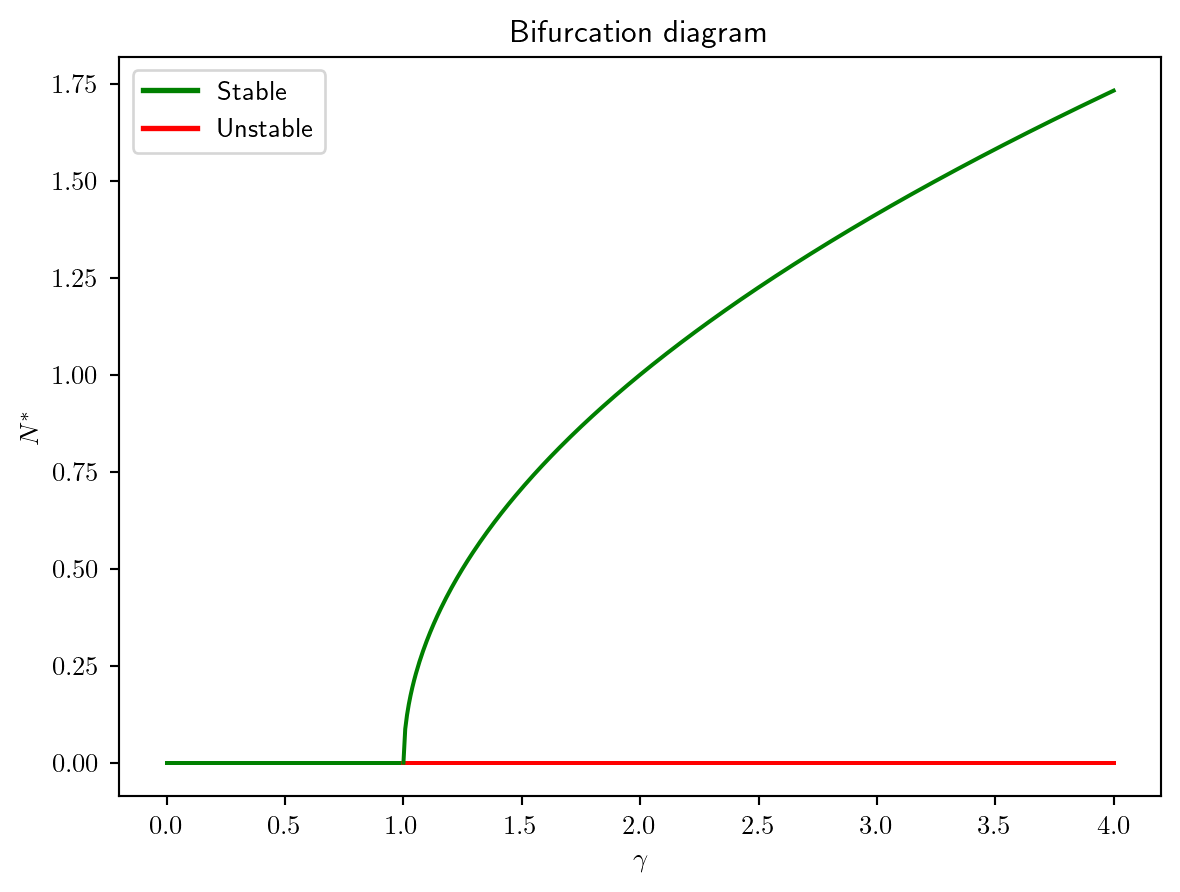
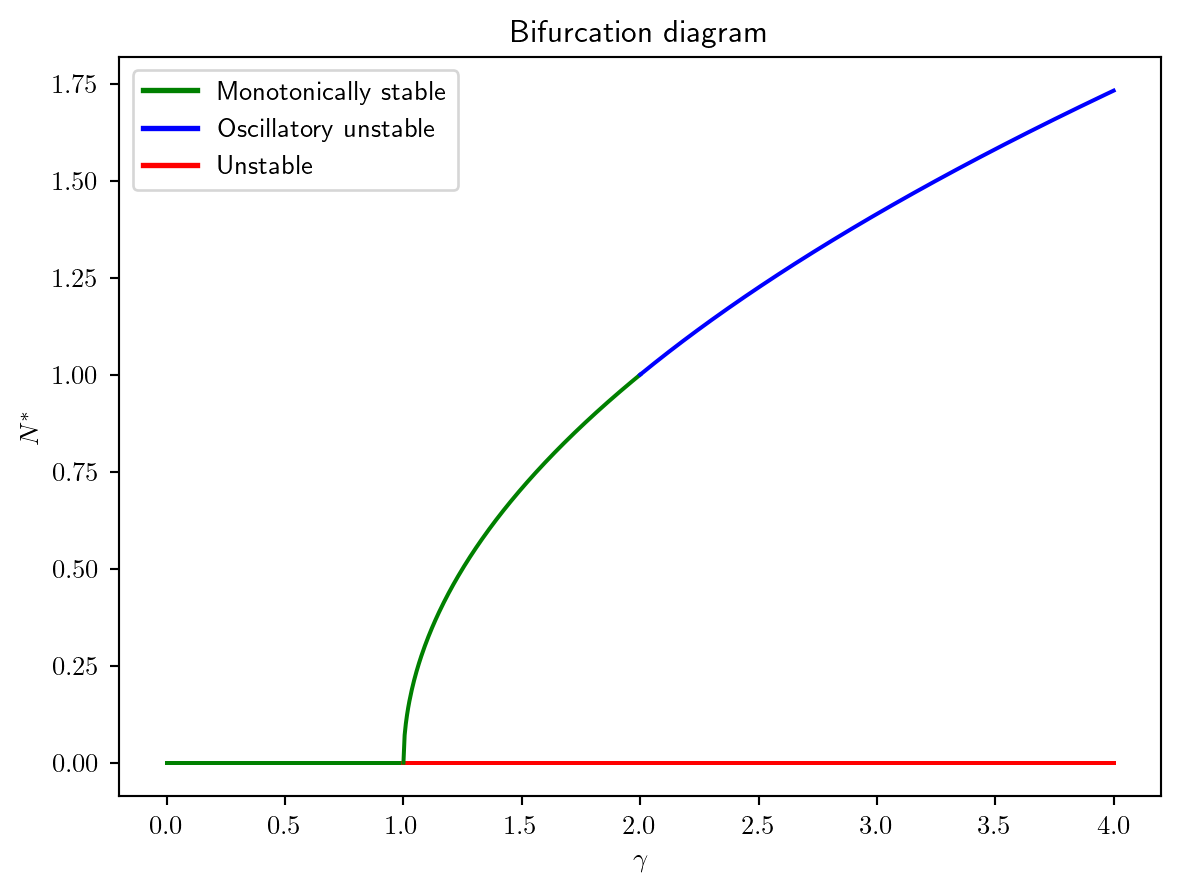
add content to example in section 2

diff --git a/docs/part1/DiscreteTimeOnePop.html b/docs/part1/DiscreteTimeOnePop.html
@@ -763,7 +763,7 @@ N^*+\hat{N}_{t+1}= H(N^*)+H'(N^*)\hat{N}_t + \mathcal{O}(\hat{N}_t^2).
 </ol>
 <p>It should not be hard to convince yourself that iterating at right angles between the <span class="math inline">\(N_{t+1} = N_{t}\)</span> straight line and the graph of <span class="math inline">\(H(N_t)\)</span> performs succesive iterations of the map. In addition, a key observation is that any <strong>intersections</strong> between the straight line and the graph of <span class="math inline">\(H(N_t)\)</span> are <strong>fixed points</strong>.</p>
 <p>The above list is an algorithm, that we often display in a convenient or campact form using pseudo-code,</p>
-<div id="algo-quicksort" class="pseudocode-container quarto-float" data-no-end="false" data-indent-size="1.2em" data-caption-prefix="Algorithm" data-line-number="true" data-comment-delimiter="//" data-pseudocode-number="1" data-line-number-punc=":">
+<div id="algo-quicksort" class="pseudocode-container quarto-float" data-no-end="false" data-indent-size="1.2em" data-line-number-punc=":" data-line-number="true" data-pseudocode-number="1" data-comment-delimiter="//" data-caption-prefix="Algorithm">
 <div class="pseudocode">
 \begin{algorithm} \caption{Quicksort} \begin{algorithmic} \Procedure{Quicksort}{$A, p, r$} \If{$p &lt; r$} \State $q = $ \Call{Partition}{$A, p, r$} \State \Call{Quicksort}{$A, p, q - 1$} \State \Call{Quicksort}{$A, q + 1, r$} \EndIf \EndProcedure \Procedure{Partition}{$A, p, r$} \State $x = A[r]$ \State $i = p - 1$ \For{$j = p, \dots, r - 1$} \If{$A[j] &lt; x$} \State $i = i + 1$ \State exchange $A[i]$ with $A[j]$ \EndIf \State exchange $A[i]$ with $A[r]$ \EndFor \EndProcedure \end{algorithmic} \end{algorithm}
 </div>
@@ -2440,32 +2440,38 @@ Figure&nbsp;2.10: Cobweb diagrams for different values of <span class="math inli
 <span id="cb11-4"><a href="#cb11-4" aria-hidden="true" tabindex="-1"></a></span>
 <span id="cb11-5"><a href="#cb11-5" aria-hidden="true" tabindex="-1"></a><span class="co"># Define gamma regions</span></span>
 <span id="cb11-6"><a href="#cb11-6" aria-hidden="true" tabindex="-1"></a>gamma_less1 <span class="op">=</span> np.linspace(<span class="dv">0</span>, <span class="dv">1</span>, <span class="dv">50</span>) <span class="co"># N^*=0 stable</span></span>
-<span id="cb11-7"><a href="#cb11-7" aria-hidden="true" tabindex="-1"></a>gamma_greater1 <span class="op">=</span> np.linspace(<span class="dv">1</span>, <span class="dv">4</span>, <span class="dv">400</span>) <span class="co"># N^*=0 unstable, non-zero N^* stable</span></span>
-<span id="cb11-8"><a href="#cb11-8" aria-hidden="true" tabindex="-1"></a></span>
-<span id="cb11-9"><a href="#cb11-9" aria-hidden="true" tabindex="-1"></a><span class="co"># Compute fixed points</span></span>
-<span id="cb11-10"><a href="#cb11-10" aria-hidden="true" tabindex="-1"></a>N_star_stable0 <span class="op">=</span> np.zeros_like(gamma_less1)</span>
-<span id="cb11-11"><a href="#cb11-11" aria-hidden="true" tabindex="-1"></a>N_star_unstable0 <span class="op">=</span> np.zeros_like(gamma_greater1)</span>
-<span id="cb11-12"><a href="#cb11-12" aria-hidden="true" tabindex="-1"></a>N_star_nonzero <span class="op">=</span> np.sqrt(gamma_greater1 <span class="op">-</span> <span class="dv">1</span>)</span>
-<span id="cb11-13"><a href="#cb11-13" aria-hidden="true" tabindex="-1"></a></span>
-<span id="cb11-14"><a href="#cb11-14" aria-hidden="true" tabindex="-1"></a><span class="co"># Plot results</span></span>
-<span id="cb11-15"><a href="#cb11-15" aria-hidden="true" tabindex="-1"></a>fig, ax <span class="op">=</span> plt.subplots(<span class="dv">1</span>)</span>
+<span id="cb11-7"><a href="#cb11-7" aria-hidden="true" tabindex="-1"></a>gamma_greater1 <span class="op">=</span> np.linspace(<span class="dv">1</span>, <span class="dv">2</span>, <span class="dv">200</span>) <span class="co"># N^*=0 unstable, non-zero N^* montonically stable</span></span>
+<span id="cb11-8"><a href="#cb11-8" aria-hidden="true" tabindex="-1"></a>gamma_greater2 <span class="op">=</span> np.linspace(<span class="dv">2</span>, <span class="dv">4</span>, <span class="dv">200</span>) <span class="co"># N^*=0 unstable, non-zero N^* oscillatory stable</span></span>
+<span id="cb11-9"><a href="#cb11-9" aria-hidden="true" tabindex="-1"></a></span>
+<span id="cb11-10"><a href="#cb11-10" aria-hidden="true" tabindex="-1"></a><span class="co"># Compute fixed points</span></span>
+<span id="cb11-11"><a href="#cb11-11" aria-hidden="true" tabindex="-1"></a>N_star_stable0 <span class="op">=</span> np.zeros_like(gamma_less1)</span>
+<span id="cb11-12"><a href="#cb11-12" aria-hidden="true" tabindex="-1"></a>N_star_unstable0 <span class="op">=</span> np.zeros_like(np.concatenate((gamma_greater1</span>
+<span id="cb11-13"><a href="#cb11-13" aria-hidden="true" tabindex="-1"></a>,gamma_greater2)))</span>
+<span id="cb11-14"><a href="#cb11-14" aria-hidden="true" tabindex="-1"></a>N_star_nonzero_mono <span class="op">=</span> np.sqrt(gamma_greater1 <span class="op">-</span> <span class="dv">1</span>)</span>
+<span id="cb11-15"><a href="#cb11-15" aria-hidden="true" tabindex="-1"></a>N_star_nonzero_osc <span class="op">=</span> np.sqrt(gamma_greater2 <span class="op">-</span> <span class="dv">1</span>)</span>
 <span id="cb11-16"><a href="#cb11-16" aria-hidden="true" tabindex="-1"></a></span>
-<span id="cb11-17"><a href="#cb11-17" aria-hidden="true" tabindex="-1"></a><span class="co"># Plot N^* = 0 as stable and unstable</span></span>
-<span id="cb11-18"><a href="#cb11-18" aria-hidden="true" tabindex="-1"></a>ax.plot(gamma_less1, N_star_stable0, <span class="st">'g'</span>) </span>
-<span id="cb11-19"><a href="#cb11-19" aria-hidden="true" tabindex="-1"></a>ax.plot(gamma_greater1, N_star_unstable0, <span class="st">'r'</span>)</span>
-<span id="cb11-20"><a href="#cb11-20" aria-hidden="true" tabindex="-1"></a></span>
-<span id="cb11-21"><a href="#cb11-21" aria-hidden="true" tabindex="-1"></a><span class="co"># Plot N^* = sqrt(gamma-1) as stable</span></span>
-<span id="cb11-22"><a href="#cb11-22" aria-hidden="true" tabindex="-1"></a>ax.plot(gamma_greater1, N_star_nonzero, <span class="st">'g'</span>)</span>
-<span id="cb11-23"><a href="#cb11-23" aria-hidden="true" tabindex="-1"></a></span>
-<span id="cb11-24"><a href="#cb11-24" aria-hidden="true" tabindex="-1"></a><span class="co"># Custom legend</span></span>
-<span id="cb11-25"><a href="#cb11-25" aria-hidden="true" tabindex="-1"></a>stable_handle <span class="op">=</span> Line2D([<span class="dv">0</span>], [<span class="dv">0</span>], color<span class="op">=</span><span class="st">'green'</span>, lw<span class="op">=</span><span class="dv">2</span>, label<span class="op">=</span><span class="st">'Stable'</span>)</span>
-<span id="cb11-26"><a href="#cb11-26" aria-hidden="true" tabindex="-1"></a>unstable_handle <span class="op">=</span> Line2D([<span class="dv">0</span>], [<span class="dv">0</span>], color<span class="op">=</span><span class="st">'red'</span>, lw<span class="op">=</span><span class="dv">2</span>, label<span class="op">=</span><span class="st">'Unstable'</span>)</span>
-<span id="cb11-27"><a href="#cb11-27" aria-hidden="true" tabindex="-1"></a>ax.legend(handles<span class="op">=</span>[stable_handle, unstable_handle], loc<span class="op">=</span><span class="st">'upper left'</span>)</span>
+<span id="cb11-17"><a href="#cb11-17" aria-hidden="true" tabindex="-1"></a><span class="co"># Plot results</span></span>
+<span id="cb11-18"><a href="#cb11-18" aria-hidden="true" tabindex="-1"></a>fig, ax <span class="op">=</span> plt.subplots(<span class="dv">1</span>)</span>
+<span id="cb11-19"><a href="#cb11-19" aria-hidden="true" tabindex="-1"></a></span>
+<span id="cb11-20"><a href="#cb11-20" aria-hidden="true" tabindex="-1"></a><span class="co"># Plot N^* = 0 as stable and unstable</span></span>
+<span id="cb11-21"><a href="#cb11-21" aria-hidden="true" tabindex="-1"></a>ax.plot(gamma_less1, N_star_stable0, <span class="st">'g'</span>) </span>
+<span id="cb11-22"><a href="#cb11-22" aria-hidden="true" tabindex="-1"></a>ax.plot(np.concatenate((gamma_greater1</span>
+<span id="cb11-23"><a href="#cb11-23" aria-hidden="true" tabindex="-1"></a>,gamma_greater2)), N_star_unstable0, <span class="st">'r'</span>)</span>
+<span id="cb11-24"><a href="#cb11-24" aria-hidden="true" tabindex="-1"></a></span>
+<span id="cb11-25"><a href="#cb11-25" aria-hidden="true" tabindex="-1"></a><span class="co"># Plot N^* = sqrt(gamma-1) as stable</span></span>
+<span id="cb11-26"><a href="#cb11-26" aria-hidden="true" tabindex="-1"></a>ax.plot(gamma_greater1, N_star_nonzero_mono, <span class="st">'g'</span>)</span>
+<span id="cb11-27"><a href="#cb11-27" aria-hidden="true" tabindex="-1"></a>ax.plot(gamma_greater2, N_star_nonzero_osc, <span class="st">'b'</span>)</span>
 <span id="cb11-28"><a href="#cb11-28" aria-hidden="true" tabindex="-1"></a></span>
-<span id="cb11-29"><a href="#cb11-29" aria-hidden="true" tabindex="-1"></a>plt.xlabel(<span class="st">'$</span><span class="er">\</span><span class="st">gamma$'</span>)</span>
-<span id="cb11-30"><a href="#cb11-30" aria-hidden="true" tabindex="-1"></a>plt.ylabel(<span class="st">'$N^*$'</span>)</span>
-<span id="cb11-31"><a href="#cb11-31" aria-hidden="true" tabindex="-1"></a>ax.set_title(<span class="st">'Bifurcation diagram'</span>)</span>
-<span id="cb11-32"><a href="#cb11-32" aria-hidden="true" tabindex="-1"></a>plt.show()</span></code></pre></div><button title="Copy to Clipboard" class="code-copy-button"><i class="bi"></i></button></div>
+<span id="cb11-29"><a href="#cb11-29" aria-hidden="true" tabindex="-1"></a><span class="co"># Custom legend</span></span>
+<span id="cb11-30"><a href="#cb11-30" aria-hidden="true" tabindex="-1"></a>stable_mon_handle <span class="op">=</span> Line2D([<span class="dv">0</span>], [<span class="dv">0</span>], color<span class="op">=</span><span class="st">'green'</span>, lw<span class="op">=</span><span class="dv">2</span>, label<span class="op">=</span><span class="st">'Monotonically stable'</span>)</span>
+<span id="cb11-31"><a href="#cb11-31" aria-hidden="true" tabindex="-1"></a>stable_osc_handle <span class="op">=</span> Line2D([<span class="dv">0</span>], [<span class="dv">0</span>], color<span class="op">=</span><span class="st">'blue'</span>, lw<span class="op">=</span><span class="dv">2</span>, label<span class="op">=</span><span class="st">'Oscillatory unstable'</span>)</span>
+<span id="cb11-32"><a href="#cb11-32" aria-hidden="true" tabindex="-1"></a>unstable_handle <span class="op">=</span> Line2D([<span class="dv">0</span>], [<span class="dv">0</span>], color<span class="op">=</span><span class="st">'red'</span>, lw<span class="op">=</span><span class="dv">2</span>, label<span class="op">=</span><span class="st">' Unstable'</span>)</span>
+<span id="cb11-33"><a href="#cb11-33" aria-hidden="true" tabindex="-1"></a>ax.legend(handles<span class="op">=</span>[stable_mon_handle, stable_osc_handle, unstable_handle], loc<span class="op">=</span><span class="st">'upper left'</span>)</span>
+<span id="cb11-34"><a href="#cb11-34" aria-hidden="true" tabindex="-1"></a></span>
+<span id="cb11-35"><a href="#cb11-35" aria-hidden="true" tabindex="-1"></a>plt.xlabel(<span class="st">'$</span><span class="er">\</span><span class="st">gamma$'</span>)</span>
+<span id="cb11-36"><a href="#cb11-36" aria-hidden="true" tabindex="-1"></a>plt.ylabel(<span class="st">'$N^*$'</span>)</span>
+<span id="cb11-37"><a href="#cb11-37" aria-hidden="true" tabindex="-1"></a>ax.set_title(<span class="st">'Bifurcation diagram'</span>)</span>
+<span id="cb11-38"><a href="#cb11-38" aria-hidden="true" tabindex="-1"></a>plt.show()</span></code></pre></div><button title="Copy to Clipboard" class="code-copy-button"><i class="bi"></i></button></div>
 </details>
 <div class="cell-output cell-output-display">
 <div id="fig-densmodelbfc" class="quarto-float quarto-figure quarto-figure-center anchored">
